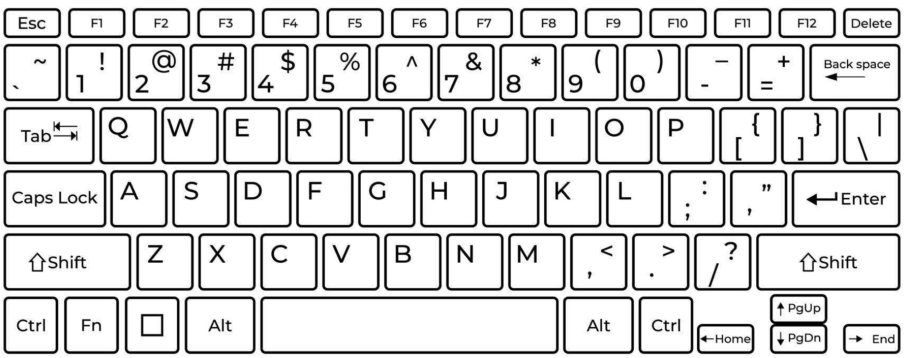
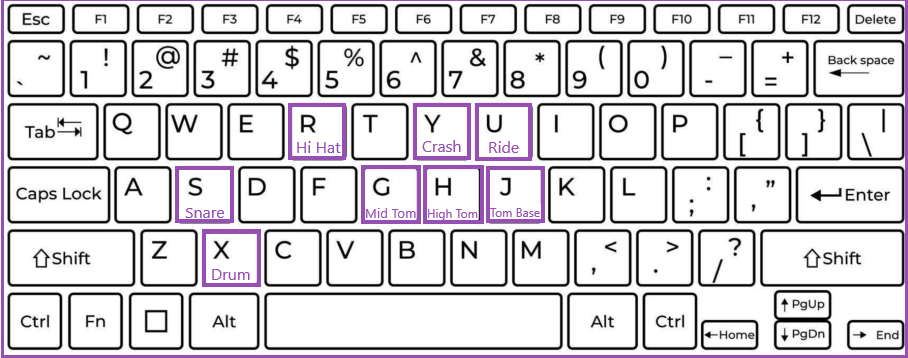
imagen teclado

diff --git a/pages/intruments.html b/pages/intruments.html
@@ -160,7 +160,7 @@
                         <summary><strong>Funcionamiento bombos </strong></summary>
                         <p>Presiona:<br> - <strong>G</strong> para el Mid Tom<br> - <strong>H</strong> para el High
                             Tom
-                            <br> - <strong>X</strong> para el Tom Base<br> - <strong>A</strong> para el Bass Drum
+                            <br> - <strong>J</strong> para el Tom Base<br> - <strong>X</strong> para el Bass Drum
                             <br>
                         </p>
                     </details>
